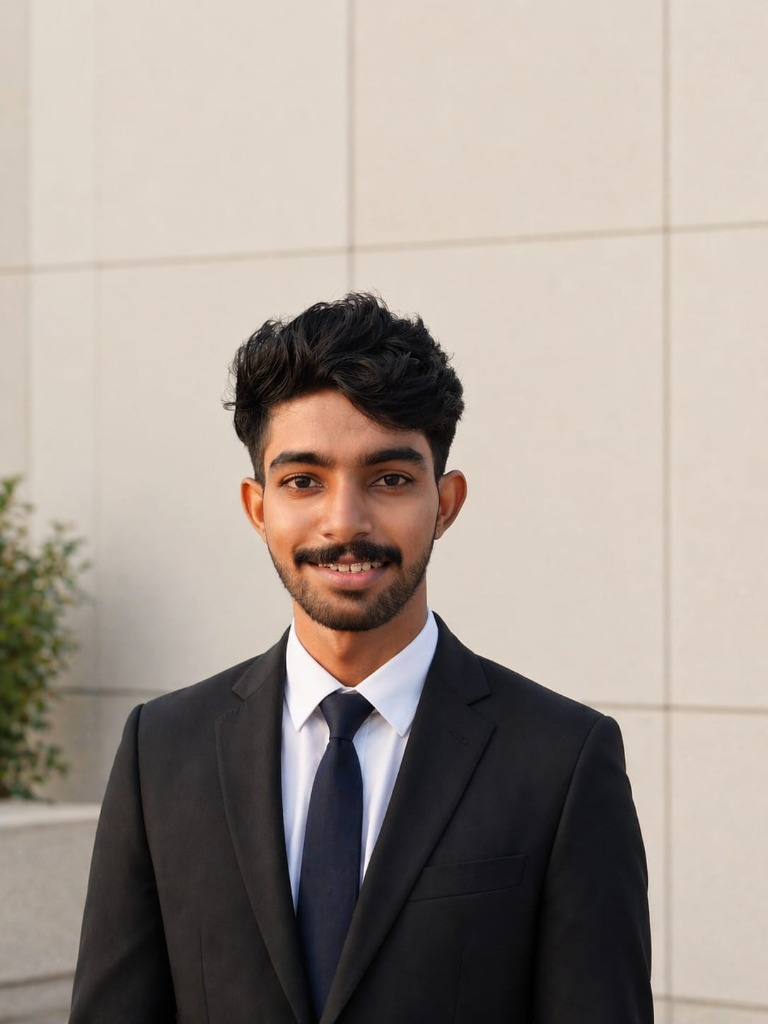
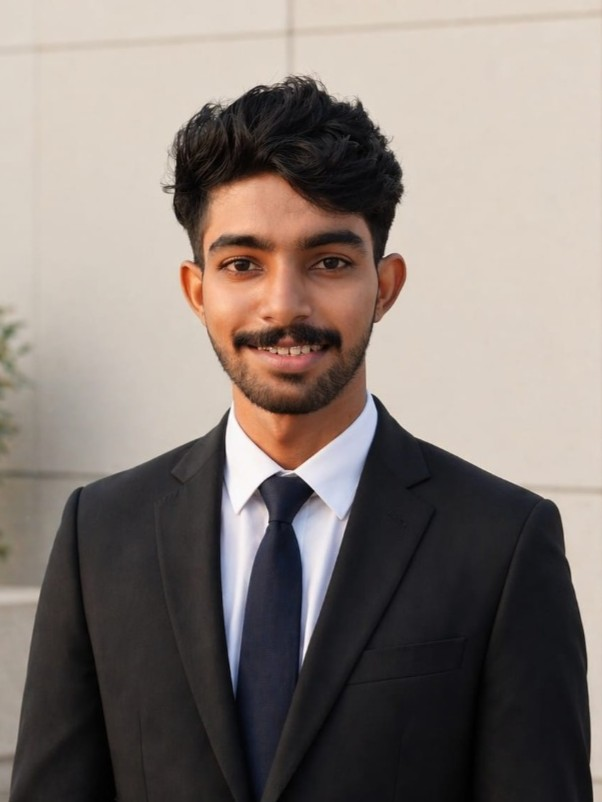
add Open Graph and Twitter metadata for social link previews

diff --git a/src/app/layout.tsx b/src/app/layout.tsx
@@ -1,3 +1,4 @@
+
 import type { Metadata, Viewport } from 'next';
 import { Plus_Jakarta_Sans, IBM_Plex_Mono } from 'next/font/google';
 import './globals.css';
@@ -18,8 +19,45 @@ const plexMono = IBM_Plex_Mono({
 });
 
 export const metadata: Metadata = {
+  metadataBase: new URL('https://mashroof.in'),
+
   title: 'Mashroof PP — Full Stack Developer',
-  description: 'Full Stack Developer building web applications with React, Node.js, Express, and MongoDB.',
+
+  description:
+    'Full Stack Developer building web applications with React, Node.js, Express, and MongoDB.',
+
+  applicationName: 'Mashroof Portfolio',
+
+  openGraph: {
+    title: 'Mashroof PP — Full Stack Developer',
+    description:
+      'Explore my projects, skills, and experience as a Full Stack Developer.',
+    url: 'https://mashroof.in',
+    siteName: 'Mashroof Portfolio',
+    images: [
+      {
+        url: '/og-image.png',
+        width: 1200,
+        height: 630,
+        alt: 'Mashroof PP — Full Stack Developer',
+      },
+    ],
+    locale: 'en_US',
+    type: 'website',
+  },
+
+  twitter: {
+    card: 'summary_large_image',
+    title: 'Mashroof PP — Full Stack Developer',
+    description:
+      'Explore my projects, skills, and experience as a Full Stack Developer.',
+    images: ['/og-image.png'],
+  },
+
+  robots: {
+    index: true,
+    follow: true,
+  },
 };
 
 export const viewport: Viewport = {
@@ -33,7 +71,11 @@ export default function RootLayout({
   children: React.ReactNode;
 }) {
   return (
-    <html lang="en" className={`${jakarta.variable} ${plexMono.variable}`} suppressHydrationWarning>
+    <html
+      lang="en"
+      className={`${jakarta.variable} ${plexMono.variable}`}
+      suppressHydrationWarning
+    >
       <head>
         <script
           dangerouslySetInnerHTML={{
